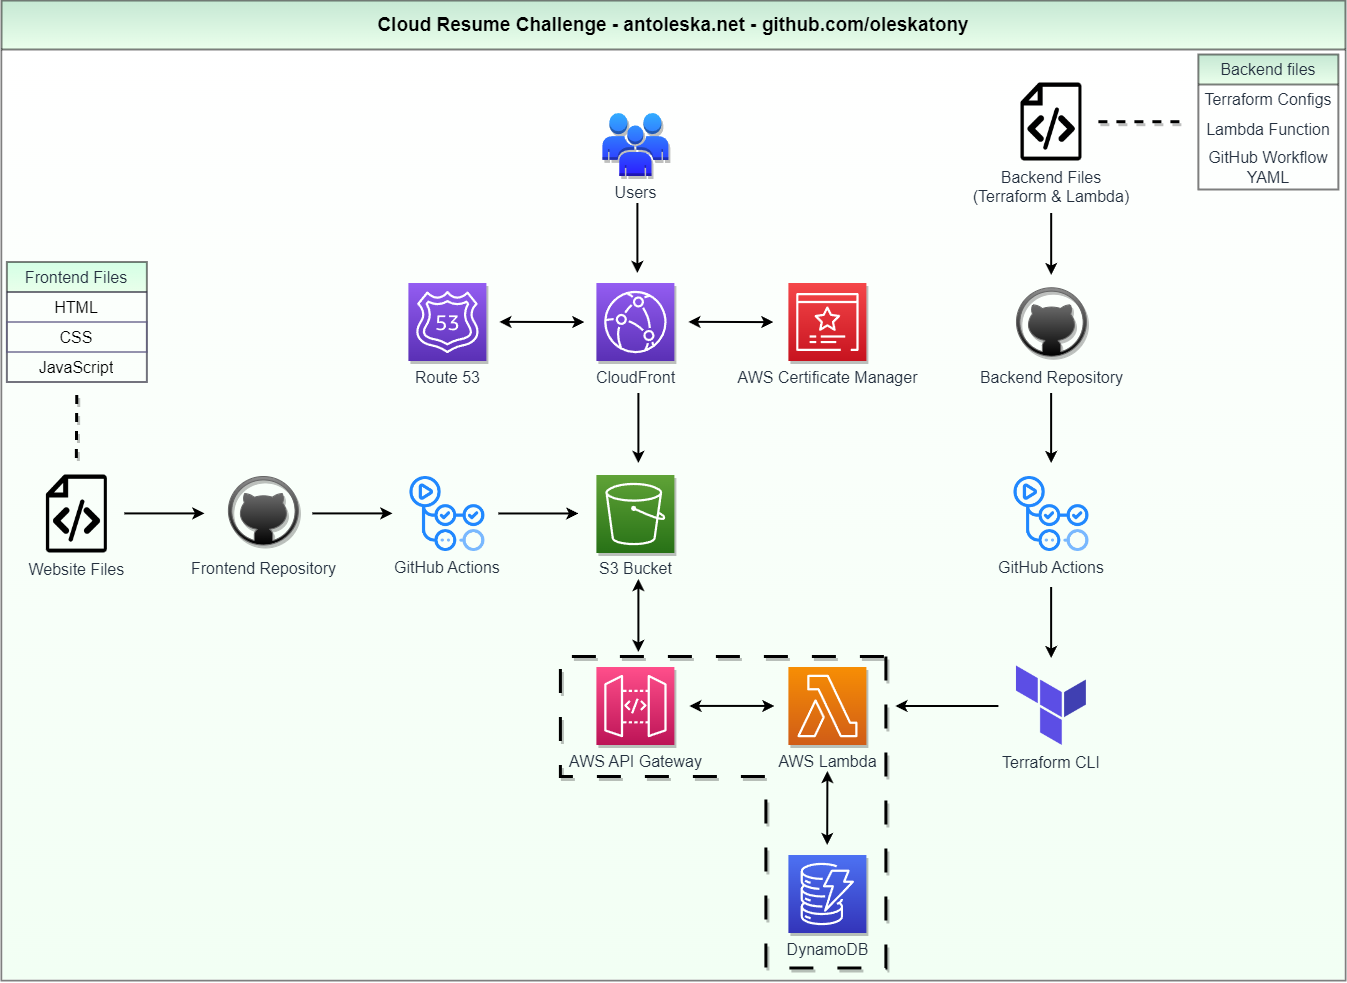
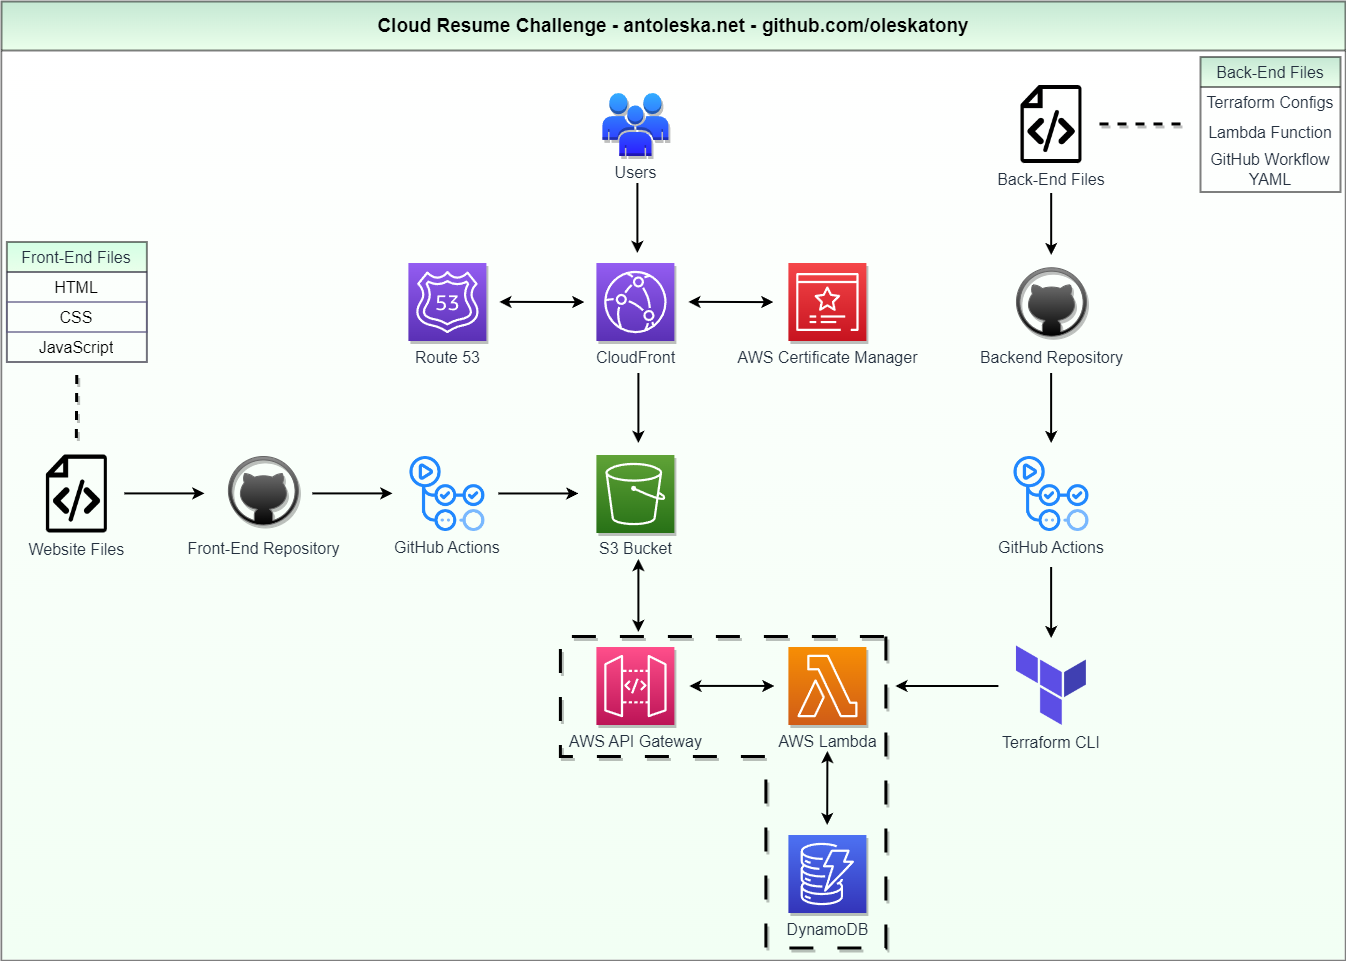
fixed typo

diff --git a/README.md b/README.md
@@ -3,17 +3,17 @@ I took on the exciting Cloud Resume Challenge as a way to showcase my skills and
 
 ![Website](https://img.shields.io/website?down_color=red&down_message=offline&label=antoleska.net&style=plastic&up_color=green&up_message=online&url=https%3A%2F%2Fantoleska.net)
 
-This project aims to create a static website architecture with frontend and backend components, utilizing various AWS services such as S3, CloudFront, Route 53, API Gateway, Lambda, and DynamoDB. The primary objectives are to host a static website on an S3 bucket, handle DNS, CDN, and SSL certificates using CloudFront and Route 53, and implement a visitor counter for the website using serverless solutions provided by AWS API Gateway, Lambda, and DynamoDB.
+This project aims to create a static website architecture with front-end and back-end components, utilizing various AWS services such as S3, CloudFront, Route 53, API Gateway, Lambda, and DynamoDB. The primary objectives are to host a static website on an S3 bucket, handle DNS, CDN, and SSL certificates using CloudFront and Route 53, and implement a visitor counter for the website using serverless solutions provided by AWS API Gateway, Lambda, and DynamoDB.
 
-This repository contains all the files related to the frontend of the challenge. If you're interested in exploring the Terraform configuration, Lambda fuction, and GitHub actions then check out the [backend repository.](https://github.com/oleskatony/crc-backend)
+This repository contains all the files related to the front-end of the challenge. If you're interested in exploring the Terraform configuration, Lambda fuction, and GitHub actions then check out the [back-end repository.](https://github.com/oleskatony/crc-back-end)
 
 ![resourcemapexample](https://github.com/oleskatony/cloudresumechallenge/blob/main/crcarchitecture.png)
 
 ## Components
 
-- Frontend: The website's frontend is hosted on an S3 bucket and includes HTML, CSS, and JavaScript files. The JavaScript code is responsible for making API calls to update the visitor count.
+- Frontend: The website's front-end is hosted on an S3 bucket and includes HTML, CSS, and JavaScript files. The JavaScript code is responsible for making API calls to update the visitor count.
 
-- API Gateway: An API Gateway is set up to receive requests from the frontend and forward them to the Lambda function. It acts as a bridge between the frontend and backend components, handling the incoming requests and routing them to the appropriate backend service.
+- API Gateway: An API Gateway is set up to receive requests from the front-end and forward them to the Lambda function. It acts as a bridge between the front-end and back-end components, handling the incoming requests and routing them to the appropriate back-end service.
 
 - Lambda Function: The Lambda function plays a crucial role in this project. It is responsible for updating the visitor count stored in DynamoDB and returning a response to the API Gateway. The Lambda function is written in Python and executed in a serverless environment. It retrieves the current visitor count from DynamoDB, increments it, updates the count in DynamoDB, and sends a response back to the API Gateway.
 
@@ -25,12 +25,12 @@ This repository contains all the files related to the frontend of the challenge.
 
 ## Process Flow
 
-1. When a visitor accesses the website, the JavaScript code embedded in the frontend triggers a request to the API Gateway.
+1. When a visitor accesses the website, the JavaScript code embedded in the front-end triggers a request to the API Gateway.
 2. The API Gateway receives the request and forwards it to the associated Lambda function.
 3. The Lambda function is then invoked and retrieves the current visitor count from DynamoDB.
 4. The Lambda function increments the visitor count, updates the count in DynamoDB, and generates a response.
 5. The API Gateway receives the response from the Lambda function.
-6. Finally, the API Gateway sends the response back to the frontend, completing the request-response cycle.
+6. Finally, the API Gateway sends the response back to the front-end, completing the request-response cycle.
 
 This process ensures that every time a visitor accesses the website, the visitor count is incremented and stored in DynamoDB, providing an accurate representation of the website's popularity.
 
